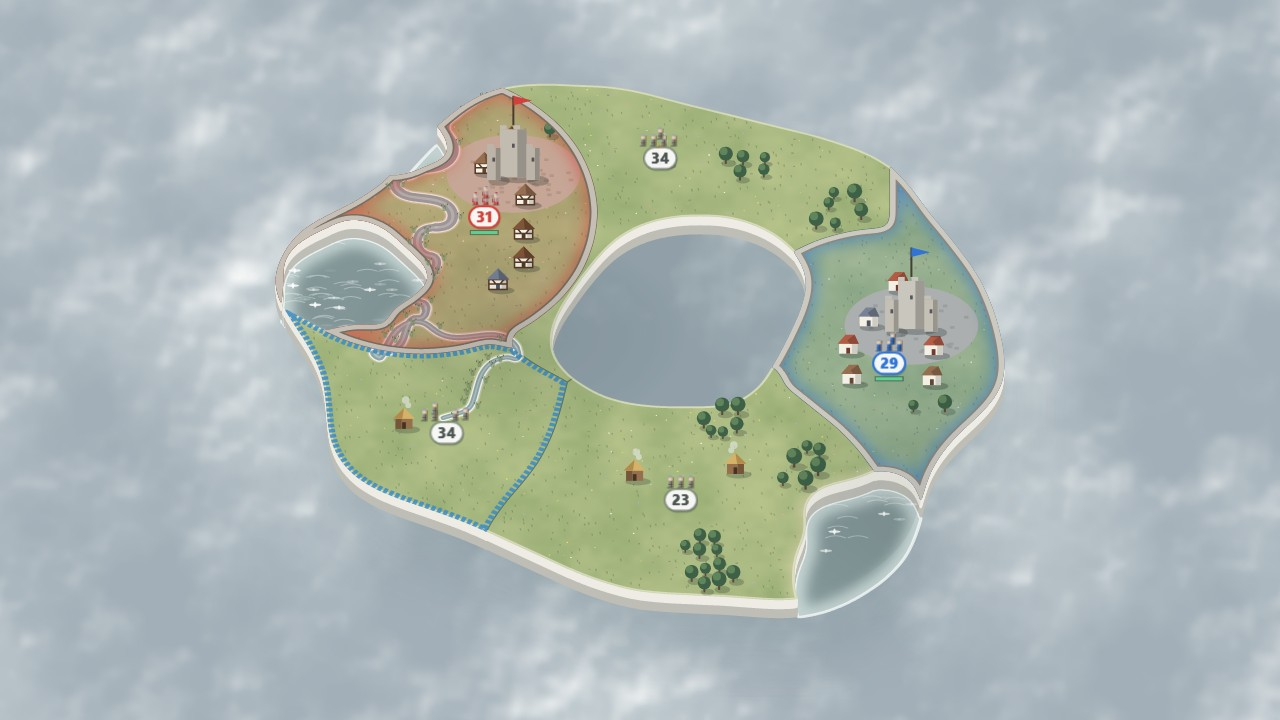
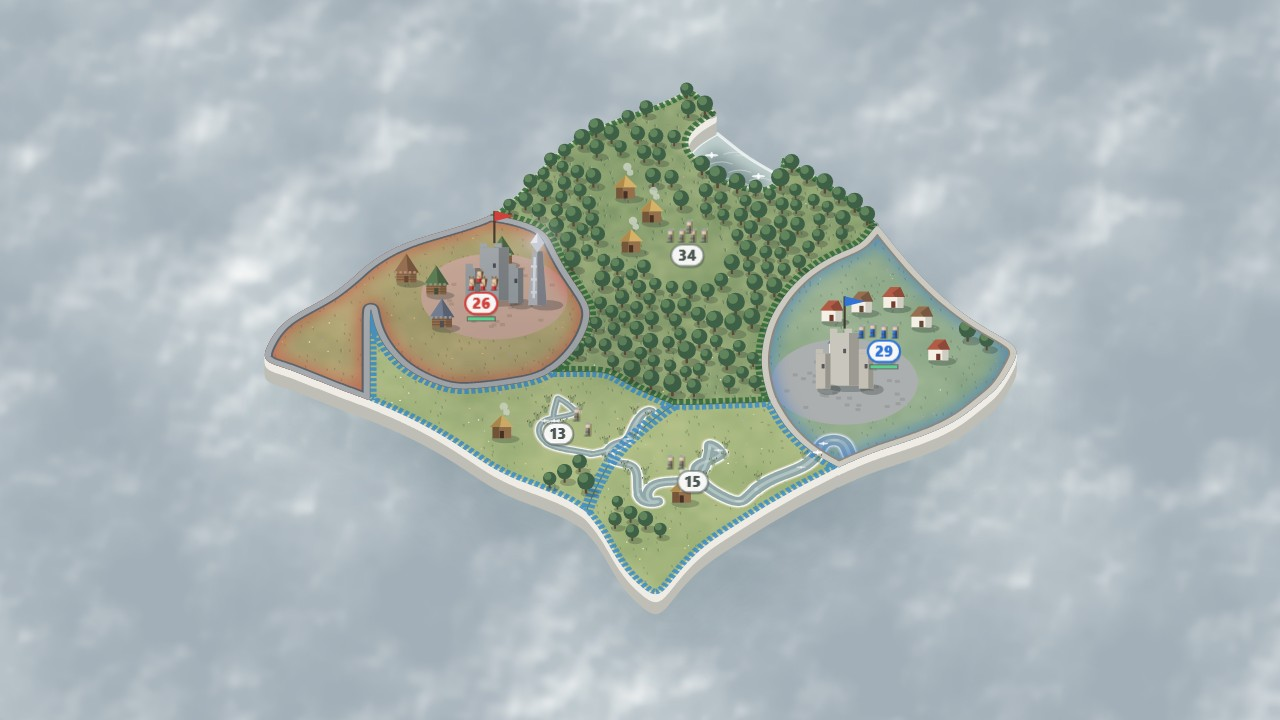
idle: campaign obelisks beside capital keeps (grey on Fogbound capitals, lit on yours after stage 1), clear of houses/trees/rivers; mockup recaptured

Changed region(s): [[0.1875, 0.0917, 0.8125, 0.8556]]

diff --git a/js/structures.js b/js/structures.js
@@ -78,6 +78,48 @@ export function mausoleum(x, cx, cy, u) {
   }
 }
 
+// where a capital's campaign obelisk stands: beside the keep, clear of its side towers (they reach
+// 2.95 u out, the needle at x1.2 is 1 u wide, so 4.2 u+ sideways), on the tile and on land, away
+// from the number badge and the troop figures over it. houses it would touch are left out
+// ({ p, skip }); render.js clears trees around p. null = no room (no obelisk)
+export function capitalObelisk(v, id) {
+  const key = `ob${id}`;
+  if (v.spotCache?.has(key)) return v.spotCache.get(key);
+  const u = v.u, [c, ...homes] = v.spots(id, 7, u * 3.2);
+  let res = null;
+  if (c) {
+    const g = v.map.grid, ids = v.map.ids, s = v.map.segs[id], lx = v.sx(s.x), ly = v.sy(s.y);
+    const onTile = (px, py) => {
+      const gx = Math.floor(px / v.scale), gy = Math.floor((py - v.oy) / (v.scale * v.tilt));
+      return gx >= 0 && gy >= 0 && gx < g && gy < g && ids[gy * g + gx] === id;
+    };
+    const wet = (px, py) => v.nearRiver?.(px / v.scale, (py - v.oy) / (v.scale * v.tilt), (u * 1.3) / v.scale);
+    // pass 1: strict (whole needle on the tile, dry land, off the badge); pass 2: wider ring, only
+    // the foot must be on dry land of the tile (a Fogbound capital must always show its obelisk)
+    const passes = [
+      { ds: [4.4, 5.2, 6, 7], es: [0.5, -0.5, 1.5, -1.5, 2.5], strict: true },
+      { ds: [4.4, 5.2, 6, 7, 8, 9], es: [0.5, -0.5, 1.5, -1.5, 2.5, -2.5, 3.5, -3.5], strict: false },
+    ];
+    for (const { ds, es, strict } of passes) {
+      let bs = Infinity;
+      for (const side of [1, -1]) for (const d of ds) for (const e of es) {
+        const px = c[0] + side * d * u, py = c[1] + e * u;
+        const pts = strict ? [[0, 0], [-u, 0], [u, 0], [0, -u * 7.4]] : [[0, 0]];   // foot corners + gem
+        if (!pts.every(([ox, oy]) => onTile(px + ox, py + oy)) || wet(px, py)) continue;
+        if (strict && !roomy(v, px, py, u * 1.4)) continue;
+        const onBadge = Math.abs(px - lx) < u * 4 && py > ly - u * 4.5 && py < ly + u * 2.5;   // badge + figures
+        if (strict && onBadge) continue;
+        const skip = homes.filter((h) => Math.abs(h[0] - px) < u * 2.6 && h[1] - py > -u * 4 && h[1] - py < u * 3);   // house width + roof height
+        const score = d + Math.abs(e) * 0.6 + skip.length * 2.5 + (onBadge ? 6 : 0);
+        if (score < bs) { bs = score; res = { p: [px, py], skip }; }
+      }
+      if (res) break;
+    }
+  }
+  v.spotCache?.set(key, res);
+  return res;
+}
+
 // campaign obelisk (each Fogbound chief's capital, later the player's saved land): pale sandstone
 // needle with a rune line and a gem on top (the old relic obelisk). look 'fog' = held by the Fog:
 // grey stone, grey runes, dull grey shine. look 'lit' = stage cleared: gold runes, bright yellow glow.
@@ -268,6 +310,7 @@ export function fieldPatch(v, s) { return Math.min(v.u * 8, 0.5 * Math.sqrt(s.ar
 
 export function ground(v, x, id, type, owner) {
   usePalette('classic');
+  if (type.startsWith('capital')) type = 'capital';   // capital-fog / capital-lit: same town square
   const s = v.map.segs[id], u = v.u, cx = v.sx(s.x), cy = v.sy(s.y), seed = v.seed + id * 31;
   const snow = v.theme === v.themes?.winter || v.theme.groundA[0] > 215;
   x.save();
@@ -381,6 +424,9 @@ export function ground(v, x, id, type, owner) {
 
 export function top(v, x, id, type, owner, skin) {
   usePalette(skin);
+  // capital-fog / capital-lit: the walled town plus a campaign obelisk (look after the dash)
+  const look = type.startsWith('capital-') ? type.slice(8) : null;
+  if (look) type = 'capital';
   const u = v.u, seed = v.seed + id * 31, col = owner ?? [140, 140, 140];
   x.save();
   v.cssT(x);
@@ -472,12 +518,16 @@ export function top(v, x, id, type, owner, skin) {
     x.restore();
     const [c, ...homes] = v.spots(id, 7, u * 3.2);
     if (!c) { x.restore(); return; }
+    // campaign obelisk beside the keep (capitalObelisk): houses it would touch are left out
+    const ob = look ? capitalObelisk(v, id) : null, skip = ob?.skip ?? [];
     const roofs = [roofRed, [150, 110, 80], [120, 130, 150], roofRed];
-    for (const [i, h] of homes.entries()) if (roomy(v, h[0], h[1], u * 1.2)) house(x, h[0], h[1], u * 0.85, wallWhite, roofs[i % roofs.length]);
+    for (const [i, h] of homes.entries()) if (!skip.includes(h) && roomy(v, h[0], h[1], u * 1.2)) house(x, h[0], h[1], u * 0.85, wallWhite, roofs[i % roofs.length]);
+    if (ob && ob.p[1] <= c[1]) drawObelisk(x, ob.p[0], ob.p[1], u * 1.2, look);   // further back than the keep: before the towers
     const ty = tower(x, c[0], c[1], u, 3, 5.4, lt(stone, 0.1));
     tower(x, c[0] - u * 2.2, c[1] + u * 0.3, u, 1.5, 3.6);
     tower(x, c[0] + u * 2.2, c[1] + u * 0.3, u, 1.5, 3.6);
     flag(x, c[0], ty, u * 1.5, col);
+    if (ob && ob.p[1] > c[1]) drawObelisk(x, ob.p[0], ob.p[1], u * 1.2, look);    // nearer: after the towers
   } else if (type.startsWith('camp')) {
     // zoomed-out maps: smaller hamlets, so they don't crowd the tile
     ((u) => {

diff --git a/js/main.js b/js/main.js
@@ -1,19 +1,19 @@
 // app shell: menu, campaign map, battle screen, input and the frame loop
-import { rules, buildings, effects, factionColors, factionNames, colorNames, troopStyles, buildingStyles, neutralColor, themeNames, themes, traits, testing } from './config.js?v=135';
-import { generateMap, rng } from './mapgen.js?v=135';
-import { initAnalytics, track } from './analytics.js?v=135';
-import { makeBand, drawBand, dressBand } from './foglets.js?v=135';
-import { Battle } from './battle.js?v=135';
-import { personalities } from './ai.js?v=135';
-import { Campaign } from './campaign.js?v=135';
-import { Expedition, stages, perks, scoring, islandShape } from './expedition.js?v=135';
-import { Idle, fmtBig, upgrades, upgradeById, branches, bridgeColor, displayScale, generals, generalById, council } from './idle.js?v=135';
-import { drawGeneral } from './generals.js?v=135';
-import { initAudio, sfx, setSfx, setMusic, setVolume, setTrack, audioPrefs, audioState, audioFiles } from './audio.js?v=135';
-import { MapView, mapScale, hexToRgb, shade, label, pill, unitSprite, pagePoint, pageRect, cloudTexture, setFigureStyle } from './render.js?v=135';
-import { previewBuildings } from './structures.js?v=135';
-import { initTune, tuneChanges } from './tune.js?v=135';
-import { initFogNoise } from './fogui.js?v=135';
+import { rules, buildings, effects, factionColors, factionNames, colorNames, troopStyles, buildingStyles, neutralColor, themeNames, themes, traits, testing } from './config.js?v=136';
+import { generateMap, rng } from './mapgen.js?v=136';
+import { initAnalytics, track } from './analytics.js?v=136';
+import { makeBand, drawBand, dressBand } from './foglets.js?v=136';
+import { Battle } from './battle.js?v=136';
+import { personalities } from './ai.js?v=136';
+import { Campaign } from './campaign.js?v=136';
+import { Expedition, stages, perks, scoring, islandShape } from './expedition.js?v=136';
+import { Idle, fmtBig, upgrades, upgradeById, branches, bridgeColor, displayScale, generals, generalById, council } from './idle.js?v=136';
+import { drawGeneral } from './generals.js?v=136';
+import { initAudio, sfx, setSfx, setMusic, setVolume, setTrack, audioPrefs, audioState, audioFiles } from './audio.js?v=136';
+import { MapView, mapScale, hexToRgb, shade, label, pill, unitSprite, pagePoint, pageRect, cloudTexture, setFigureStyle } from './render.js?v=136';
+import { previewBuildings } from './structures.js?v=136';
+import { initTune, tuneChanges } from './tune.js?v=136';
+import { initFogNoise } from './fogui.js?v=136';
 initFogNoise();   // wisp texture for the fog panels (pc.css)
 
 const $ = (id) => document.getElementById(id);
@@ -311,7 +311,10 @@ function paintBattle() {
 // how battle b's tiles look on the map (owner colour, building / shrine / camp / huts)
 function styleFor(b) {
   return (id) => {
-    const s = b.segs[id], o = s.owner, building = s.obelisk ? 'obelisk' : s.building ?? (s.relic ? 'relic' : s.home ? 'home' : s.camp ? 'camp' + s.camp : null);   // shrine shows until something is built
+    const s = b.segs[id], o = s.owner;
+    let building = s.obelisk ? 'obelisk' : s.building ?? (s.relic ? 'relic' : s.home ? 'home' : s.camp ? 'camp' + s.camp : null);   // shrine shows until something is built
+    // campaign obelisks: 'capital-fog' (bot keep, grey) / 'capital-lit' (your keep after stage 1)
+    if (building === 'capital' && b.capObelisks && s.capital) building = o > 0 ? 'capital-fog' : b.homeLit ? 'capital-lit' : 'capital';
     if (o < 0) return { color: null, fill: 0, building, huts: !building };   // neutral: shacks show people live there
     return { color: colors[b.factions[o].color], fill: 0.16, building, skin: b.factions[o].skin?.buildings };
   };

diff --git a/mockups/campaign-map.html b/mockups/campaign-map.html
@@ -85,7 +85,6 @@
   // ---------- captured maps (tools capture: idle stage 1 / stage 12 at 1280x720) ----------
   // per map: u = the game's map unit, home = [x, y, r] of your tile, homePath = its real outline,
   // bots = [x, y, r] of each Fogbound chief's capital
-  import { drawObelisk } from '../js/structures.js';
   const MAPS = await (await fetch('img/campaign-maps.json')).json();
   MAPS.s1.img = 'img/campaign-s1.jpg'; MAPS.s12.img = 'img/campaign-s12.jpg';
 
@@ -112,14 +111,15 @@
     g.putImageData(im, 0, 0);
   }
 
-  // obelisks: the game's own drawObelisk (structures.js), grey shine on Fogbound capitals, bright
-  // yellow on your land. stages 1-11 all sit inside your home tile, so they show as one obelisk
-  const obPos = (x, y, r) => [x + r * 0.5, y + r * 0.25];
+  // obelisks: drawn by the game itself (capital-fog / capital-lit scenes, structures.js), so the
+  // capture already shows them next to the keeps; the hour-over state adds a big glow on your land
   function drawObelisks(cv, m, st) {
     cv.width = 2560; cv.height = 1440; const g = cv.getContext('2d'); g.scale(2, 2);
-    const [hx, hy, hr] = m.home;
-    if (st.lit) { const [x, y] = obPos(hx, hy, hr); drawObelisk(g, x, y, m.u * (st.over ? 1.6 : 1.25), 'lit'); }
-    if (!st.over) for (const [bx, by, br] of m.bots) { const [x, y] = obPos(bx, by, br); drawObelisk(g, x, y, m.u, 'fog'); }
+    if (!st.over || !m.homeOb) return;
+    const [x, y] = m.homeOb, gy = y - m.u * 5.3, r = m.u * 14;
+    const gr = g.createRadialGradient(x, gy, 0, x, gy, r);
+    gr.addColorStop(0, 'rgba(255, 236, 150, .85)'); gr.addColorStop(0.35, 'rgba(255, 215, 90, .35)'); gr.addColorStop(1, 'rgba(255, 215, 106, 0)');
+    g.fillStyle = gr; g.beginPath(); g.arc(x, gy, r, 0, 7); g.fill();
   }
 
   // ---------- sample campaign data ----------
@@ -173,8 +173,8 @@
     // labels: merged obelisk count on your tile, "Fogbound chief" above the grey ones
     const tags = document.getElementById('tags'), [hx, hy, hr] = m.home;
     let t = '';
-    if (st.lit) { const [x, y] = obPos(hx, hy, hr); t += `<div class="tag lit" style="left:${x}px;top:${y - m.u * (st.over ? 1.6 : 1.25) * 6.4 - 24}px">${st.over ? 'Obelisk of 1207 · stages 1-11 saved' : '×19 · stages 1-11'}</div>`; }
-    if (!st.over) for (const [bx, by, br] of m.bots) { const [x, y] = obPos(bx, by, br); t += `<div class="tag dark" style="left:${x}px;top:${y - m.u * 6.4 - 24}px">Fogbound chief</div>`; }
+    if (st.lit && m.homeOb) { const [x, y] = m.homeOb; t += `<div class="tag lit" style="left:${x}px;top:${y - m.u * 6.4 - 26}px">${st.over ? 'Obelisk of 1207 · stages 1-11 saved' : '×19 · stages 1-11'}</div>`; }
+    if (!st.over) for (const [x, y] of m.botObs) t += `<div class="tag dark" style="left:${x}px;top:${y - m.u * 6.4 - 26}px">Fogbound chief</div>`;
     tags.innerHTML = t;
     // click your pulsing tile (or the button): zoom in and start (the real game starts the battle)
     const go = () => {

diff --git a/party/js/main.js b/party/js/main.js
@@ -1,18 +1,18 @@
 // app shell: menu, campaign map, battle screen, input and the frame loop
-import { rules, buildings, effects, factionColors, factionNames, colorNames, troopStyles, buildingStyles, neutralColor, themeNames, themes, traits, testing } from './config.js?v=135';
-import { generateMap, rng } from './mapgen.js?v=135';
-import { initAnalytics, track } from './analytics.js?v=135';
-import { makeBand, drawBand, dressBand } from './foglets.js?v=135';
-import { Battle } from './battle.js?v=135';
-import { personalities } from './ai.js?v=135';
-import { Campaign } from './campaign.js?v=135';
-import { Expedition, stages, perks, scoring, islandShape } from './expedition.js?v=135';
-import { Idle, fmtBig, upgrades, upgradeById, branches, bridgeColor, displayScale } from './idle.js?v=135';
-import { initAudio, sfx, setSfx, setMusic, setVolume, setTrack, audioPrefs, audioState, audioFiles } from './audio.js?v=135';
-import { MapView, mapScale, hexToRgb, shade, label, pill, unitSprite, pagePoint, pageRect, cloudTexture, setFigureStyle } from './render.js?v=135';
-import { previewBuildings } from './structures.js?v=135';
-import { initTune, tuneChanges } from './tune.js?v=135';
-import { net, hostRoom, joinRoom, startGame, backToLobby, attach, tick as netTick, leave as netLeave, detMath } from './net.js?v=135';
+import { rules, buildings, effects, factionColors, factionNames, colorNames, troopStyles, buildingStyles, neutralColor, themeNames, themes, traits, testing } from './config.js?v=136';
+import { generateMap, rng } from './mapgen.js?v=136';
+import { initAnalytics, track } from './analytics.js?v=136';
+import { makeBand, drawBand, dressBand } from './foglets.js?v=136';
+import { Battle } from './battle.js?v=136';
+import { personalities } from './ai.js?v=136';
+import { Campaign } from './campaign.js?v=136';
+import { Expedition, stages, perks, scoring, islandShape } from './expedition.js?v=136';
+import { Idle, fmtBig, upgrades, upgradeById, branches, bridgeColor, displayScale } from './idle.js?v=136';
+import { initAudio, sfx, setSfx, setMusic, setVolume, setTrack, audioPrefs, audioState, audioFiles } from './audio.js?v=136';
+import { MapView, mapScale, hexToRgb, shade, label, pill, unitSprite, pagePoint, pageRect, cloudTexture, setFigureStyle } from './render.js?v=136';
+import { previewBuildings } from './structures.js?v=136';
+import { initTune, tuneChanges } from './tune.js?v=136';
+import { net, hostRoom, joinRoom, startGame, backToLobby, attach, tick as netTick, leave as netLeave, detMath } from './net.js?v=136';
 
 const $ = (id) => document.getElementById(id);
 

diff --git a/js/render.js b/js/render.js
@@ -5,10 +5,10 @@
 // map grid with marching squares + chaikin smoothing, so nothing looks pixelated at any size.
 // layers (display resolution, cached): under (shadow, lakes, cliff) -> top (ground, building scenes, owner
 // overlays, borders, rocks, trees; repainted when owners, buildings or the selection change)
-import { themes, fogTwirl } from './config.js?v=135';
-import * as structures from './structures.js?v=135';
-import { outline, loopsToPath, segBoxes } from './outline.js?v=135';
-import { mix, hash, vnoise, groundPixels, coastSteps, placeTrees, measureIsland } from './viewprep.js?v=135';
+import { themes, fogTwirl } from './config.js?v=136';
+import * as structures from './structures.js?v=136';
+import { outline, loopsToPath, segBoxes } from './outline.js?v=136';
+import { mix, hash, vnoise, groundPixels, coastSteps, placeTrees, measureIsland } from './viewprep.js?v=136';
 export { mix };
 
 export function hexToRgb(hex) {
@@ -630,7 +630,12 @@ export class MapView {
     else if (type === 'fort') add(main, u * 6.5, u * 4.2);
     else if (type === 'hospital') { add(this.spots(id, 3, u * 6), u * 4, u * 2.6); add(this.spots(id, 6, u * 4), u * 2.2, u * 1.6); }
     else if (type === 'lab') { add(this.spots(id, 3, u * 6), u * 4, u * 2.6); add(main, u * 6.5, u * 4); }
-    else if (type === 'capital') { add(this.spots(id, 7, u * 3.2), u * 3.2, u * 2.2); add(main, u * 8, u * 4.8); }
+    else if (type.startsWith('capital')) {
+      add(this.spots(id, 7, u * 3.2), u * 3.2, u * 2.2); add(main, u * 8, u * 4.8);
+      // capital-fog / capital-lit: clearing around the campaign obelisk beside the keep
+      const ob = type !== 'capital' && structures.capitalObelisk(this, id);
+      if (ob) add([ob.p], u * 2, u * 1.4);
+    }
     else if (type.startsWith('camp')) add(main, u * (4 + Number(type.slice(4)) * 1.3) * Math.max(0.62, this.map.detail ?? 1), u * 3.4);
     else if (type === 'home') add(main, u * 6.6, u * 3);   // house + fence + its own tree
     else if (type === 'obelisk') add(main, u * 5.6, u * 3.3);

diff --git a/js/battle.js b/js/battle.js
@@ -1,10 +1,10 @@
 // battle simulation: segments, troops, buildings, armies. no drawing here,
 // so the same code runs in the browser and in headless tests.
-import { rules, buildings, effects, traits, relicGarrison, testing } from './config.js?v=135';
-import { perks, combineMods } from './expedition.js?v=135';
-import { hops } from './mapgen.js?v=135';
-import { rng, spreadStarts, equalizeStarts } from './mapgen.js?v=135';
-import { think } from './ai.js?v=135';
+import { rules, buildings, effects, traits, relicGarrison, testing } from './config.js?v=136';
+import { perks, combineMods } from './expedition.js?v=136';
+import { hops } from './mapgen.js?v=136';
+import { rng, spreadStarts, equalizeStarts } from './mapgen.js?v=136';
+import { think } from './ai.js?v=136';
 
 const round1 = (v) => Math.round(v * 10) / 10;
 
@@ -39,6 +39,10 @@ export class Battle {
     this.quietEnd = opts.quietEnd ?? 0;
     this.quiet = 0;
     this.closedIn = false;   // true when the quiet rule decided the battle
+    // campaign obelisks (idle mode): every bot capital shows a grey Fog obelisk next to its keep,
+    // the player's capital a lit one once earlier stages are cleared (homeLit). looks only
+    this.capObelisks = opts.capObelisks ?? false;
+    this.homeLit = opts.homeLit ?? false;
 
     // segments: cap from size (largest = capMax), growth = growthRate x cap,
     // neutral garrison = a random share of the cap (bigger tiles hold more)

diff --git a/party/index.html b/party/index.html
@@ -24,7 +24,7 @@
   <!-- game fonts, bundled in fonts/ (works offline and in the desktop app); @font-face in style.css -->
   <link rel="preload" href="../fonts/fredoka.woff2" as="font" type="font/woff2" crossorigin>
   <link rel="preload" href="../fonts/luckiest-guy.woff2" as="font" type="font/woff2" crossorigin>
-  <link rel="stylesheet" href="style.css?v=135">
+  <link rel="stylesheet" href="style.css?v=136">
   <!-- phones held upright: turn the page to landscape before the first paint (main.js keeps it in
        sync on resize, but only runs once every module has loaded) -->
   <script>
@@ -157,7 +157,7 @@
       <button id="btn-idle" class="mode green party-off"><span class="m-ico">🌫</span><span class="m-txt"><b>Idle</b><small id="m-idle">Endless zoom-out · upgrades</small></span><span class="play">GO</span></button>
       <button id="btn-skirmish" class="mode pink"><span class="m-ico">⚔</span><span class="m-txt"><b>Quick battle</b><small>Random island · 3 rivals</small></span><span class="play">FIGHT</span></button>
     </div>
-    <span id="version">build 135 · 2026-11-16 10:02</span>
+    <span id="version">build 136 · 2026-11-16 10:27</span>
   </section>
 
   <!-- campaign world map -->
@@ -366,6 +366,6 @@
   </div>
 
   <div id="toast"></div>
-  <script type="module" src="js/main.js?v=135"></script>
+  <script type="module" src="js/main.js?v=136"></script>
 </body>
 </html>

diff --git a/js/idle.js b/js/idle.js
@@ -12,9 +12,9 @@
 //     and Fog climb to K, M, B... while the battles stay the same size
 //   - enemy strength: bots attack, defend and grow stronger every stage, so upgrades are needed to
 //     keep going. upgrades never make enemies stronger
-import { personalities, pickBuilding } from './ai.js?v=135';
-import { rng, hops } from './mapgen.js?v=135';
-import { effects, rules } from './config.js?v=135';
+import { personalities, pickBuilding } from './ai.js?v=136';
+import { rng, hops } from './mapgen.js?v=136';
+import { effects, rules } from './config.js?v=136';
 
 export const idleCfg = {
   display: 1.45,      // shown numbers (troops, Fog) grow x1.45 per stage
@@ -549,6 +549,7 @@ export class Idle {
       seed, cells: st.cells, shape: st.shape, theme: st.theme, neutral: st.neutral, detail: st.detail, stamp,
       camps: n > 1 ? { mult: Math.max(1, nm), share: 0.2, boost: 1.3 } : undefined,
       deplete: idleCfg.deplete, quietEnd: idleCfg.quietEnd,
+      capObelisks: true, homeLit: n > 1,   // obelisks by the keeps: grey on bot capitals, lit on yours after stage 1
       factions: [me, ...bots],
       ghost: ghost && { name: ghost.name }, boss: st.boss,
       obelisks: Math.min(3, bossMist(n)),   // boss obelisks: one per Mist up to 3 (stage 10 drops 1)

diff --git a/index.html b/index.html
@@ -25,8 +25,8 @@
   <!-- game fonts, bundled in fonts/ (works offline and in the desktop app); @font-face in style.css -->
   <link rel="preload" href="fonts/fredoka.woff2" as="font" type="font/woff2" crossorigin>
   <link rel="preload" href="fonts/luckiest-guy.woff2" as="font" type="font/woff2" crossorigin>
-  <link rel="stylesheet" href="style.css?v=135">
-  <link rel="stylesheet" href="pc.css?v=135">
+  <link rel="stylesheet" href="style.css?v=136">
+  <link rel="stylesheet" href="pc.css?v=136">
   <!-- phones held upright: turn the page to landscape before the first paint (main.js keeps it in
        sync on resize, but only runs once every module has loaded) -->
   <script>
@@ -168,7 +168,7 @@
         <button id="m-quit" class="mode desktop-only hidden"><span class="m-txt"><b>Quit</b></span></button>
       </div>
     </div>
-    <span id="version">build 135 · 2026-11-16 10:02</span>
+    <span id="version">build 136 · 2026-11-16 10:27</span>
   </section>
 
   <!-- campaign world map -->
@@ -369,6 +369,6 @@
   </div>
 
   <div id="toast"></div>
-  <script type="module" src="js/main.js?v=135"></script>
+  <script type="module" src="js/main.js?v=136"></script>
 </body>
 </html>

diff --git a/js/mapworker.js b/js/mapworker.js
@@ -1,10 +1,10 @@
 // map generation off the main thread: the conquest pre-builds the next stage's map in here while
 // the perk card is up (main.js preloadMap), so the next stage starts without a pause
-import { generateMap, spreadStarts, equalizeStarts, rng } from './mapgen.js?v=135';
-import { mapOutlines } from './outline.js?v=135';
-import { groundPixels, coastSteps, placeTrees, measureIsland } from './viewprep.js?v=135';
-import { themes } from './config.js?v=135';
-import { paintInWorker } from './render.js?v=135';
+import { generateMap, spreadStarts, equalizeStarts, rng } from './mapgen.js?v=136';
+import { mapOutlines } from './outline.js?v=136';
+import { groundPixels, coastSteps, placeTrees, measureIsland } from './viewprep.js?v=136';
+import { themes } from './config.js?v=136';
+import { paintInWorker } from './render.js?v=136';
 
 // the last few maps sent, by key: a paint job (below) draws the view of one of them
 const maps = new Map();

diff --git a/party/js/battle.js b/party/js/battle.js
@@ -1,10 +1,10 @@
 // battle simulation: segments, troops, buildings, armies. no drawing here,
 // so the same code runs in the browser and in headless tests.
-import { rules, buildings, effects, traits, relicGarrison, testing } from './config.js?v=135';
-import { perks, combineMods } from './expedition.js?v=135';
-import { hops } from './mapgen.js?v=135';
-import { rng, spreadStarts, equalizeStarts } from './mapgen.js?v=135';
-import { think } from './ai.js?v=135';
+import { rules, buildings, effects, traits, relicGarrison, testing } from './config.js?v=136';
+import { perks, combineMods } from './expedition.js?v=136';
+import { hops } from './mapgen.js?v=136';
+import { rng, spreadStarts, equalizeStarts } from './mapgen.js?v=136';
+import { think } from './ai.js?v=136';
 
 const round1 = (v) => Math.round(v * 10) / 10;
 

diff --git a/js/campaign.js b/js/campaign.js
@@ -3,8 +3,8 @@
 // the world is a noise-generated continent with islands (sea routes link them), lakes and mountains.
 // regions belong to 4 rival empires; difficulty grows with distance from home; each region has a
 // climate by position (snowy north, autumn east, moor west, summer south) that its battle uses.
-import { generateMap, hops, rng } from './mapgen.js?v=135';
-import { personalities } from './ai.js?v=135';
+import { generateMap, hops, rng } from './mapgen.js?v=136';
+import { personalities } from './ai.js?v=136';
 
 const save_key = 'frontlines.campaign.v2';   // v2 = big world map (old saves don't fit)
 const world_seed = 20332373;   // picked from a seed scan: 4 islands, 3 sea routes, ~35% land
